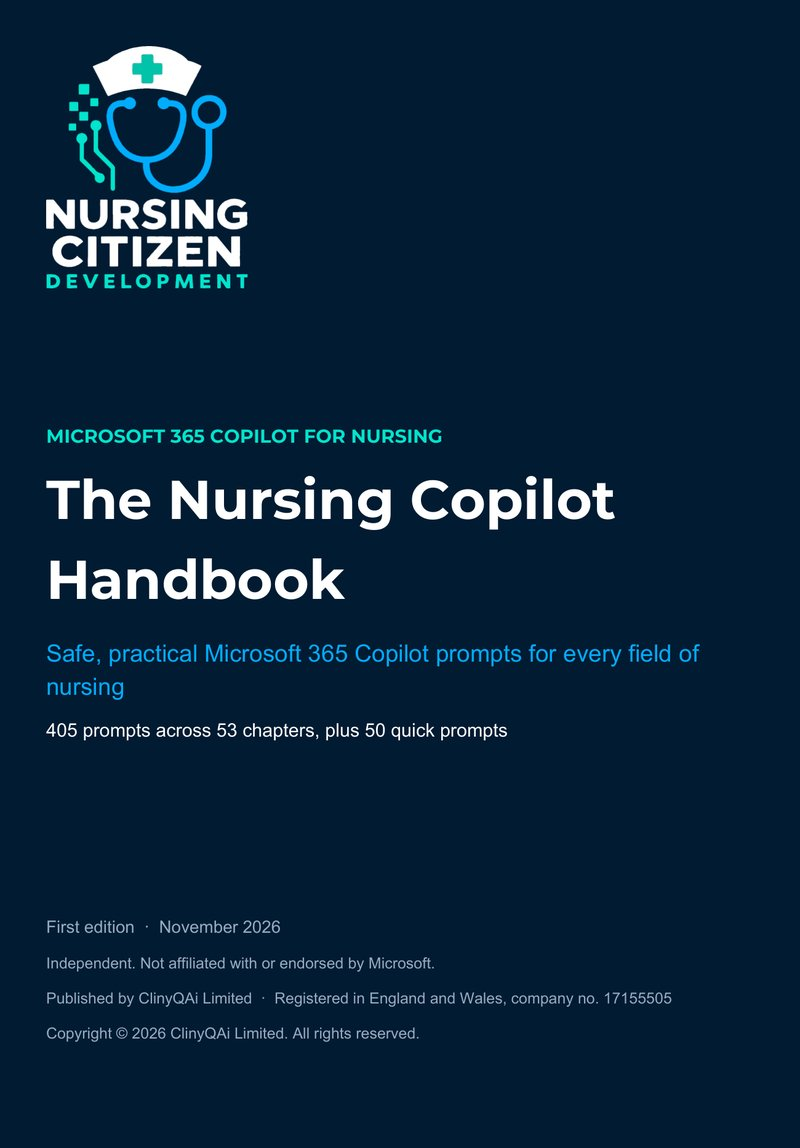
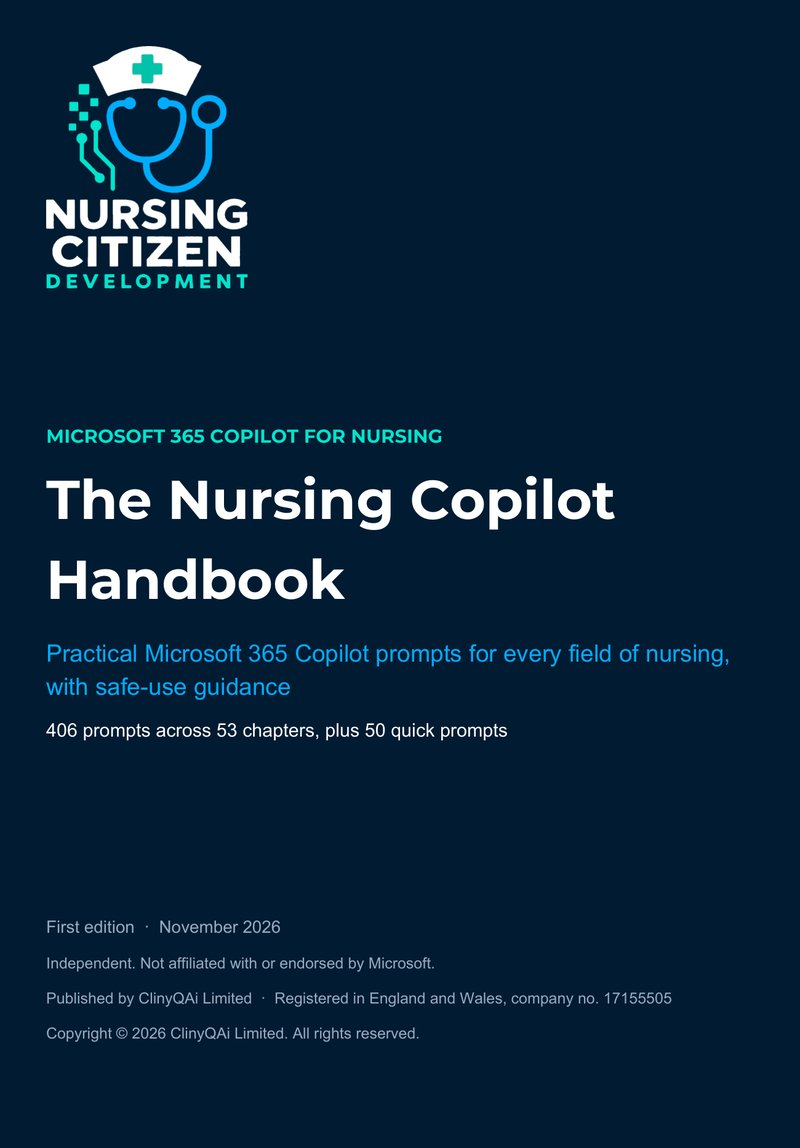
Compliance updates: claims, how buying works, language, eligibility
Replace unqualified 'safe' claims with 'safe-use guidance', update to 406
prompts, add how buying works, language and UK notes, and the student
eligibility line in the terms. Refresh images and free sample.

Changed region(s): [[0.0625, 0.5488, 0.9062, 0.6098]]

diff --git a/index.html b/index.html
@@ -4,9 +4,9 @@
 <meta charset="utf-8">
 <meta name="viewport" content="width=device-width, initial-scale=1">
 <title>The Nursing Copilot Handbook | Nursing Citizen Development</title>
-<meta name="description" content="405 safe, practical Microsoft 365 Copilot prompts for every field of nursing, mapped to the NMC Code. Instant PDF download plus bonus pack.">
+<meta name="description" content="406 practical Microsoft 365 Copilot prompts for every field of nursing, with safe-use guidance, mapped to the NMC Code. Instant PDF download plus bonus pack.">
 <meta property="og:title" content="The Nursing Copilot Handbook">
-<meta property="og:description" content="405 safe, practical Copilot prompts for every field of nursing, mapped to the NMC Code.">
+<meta property="og:description" content="406 practical Copilot prompts for every field of nursing, with safe-use guidance, mapped to the NMC Code.">
 <meta property="og:image" content="assets/Handbook_Cover.jpg">
 <link rel="preconnect" href="https://fonts.googleapis.com">
 <link rel="preconnect" href="https://fonts.gstatic.com" crossorigin>
@@ -34,9 +34,9 @@
     <div>
       <p class="eyebrow">Microsoft 365 Copilot for nursing</p>
       <h1 id="title">The Nursing Copilot Handbook</h1>
-      <p class="lead">405 safe, practical prompts for every field of nursing, built on the nursing process and mapped to the NMC Code. Written by a nurse, for nurses, nursing associates, students and support workers.</p>
+      <p class="lead">406 practical prompts for every field of nursing, with safe-use guidance, built on the nursing process and mapped to the NMC Code. Written by a nurse, for nurses, nursing associates, students and support workers.</p>
       <ul class="facts">
-        <li>405 prompts in 53 chapters</li>
+        <li>406 prompts in 53 chapters</li>
         <li>50 quick prompts</li>
         <li>Free update for the new NMC Code</li>
         <li>Safe-use level on every prompt</li>
@@ -52,10 +52,10 @@
 <section aria-labelledby="why">
   <div class="wrap">
     <p class="eyebrow">Why this handbook</p>
-    <h2 id="why">Copilot is now on NHS desktops. Most nurses haven't been shown how to use it safely.</h2>
+    <h2 id="why">Copilot is now on NHS desktops. This handbook shows nurses how to use it safely.</h2>
     <div class="grid3" style="margin-top:28px">
       <div class="card"><h3>Starts from nursing work</h3><p>Handover, teaching, revalidation, safeguarding preparation, audit, leadership: every prompt begins with a real task, not a tech feature.</p></div>
-      <div class="card"><h3>Safety built in</h3><p>Every prompt carries a safe-use level and the red lines: no identifiable information, no clinical decisions, no made-up references.</p></div>
+      <div class="card"><h3>Safe-use guidance on every prompt</h3><p>Every prompt carries a safe-use level and the red lines: no identifiable information, no clinical decisions, no made-up references.</p></div>
       <div class="card"><h3>Works with your licence</h3><p>Each prompt shows whether it works in Copilot Chat or needs a full Microsoft 365 Copilot licence, with a workaround where there is one.</p></div>
     </div>
   </div>
@@ -135,7 +135,9 @@
         <a class="btn btn-dark" href="mailto:info@nursingcitizendevelopment.com?subject=Nursing%20Copilot%20Handbook%20system%20licence">Ask for a quote</a>
       </div>
     </div>
-    <p class="small" style="margin-top:16px">Secure card payment by Stripe. Your download link appears as soon as you have paid, so save it. Organisations also get a licence certificate by email. By buying you agree to the <a href="terms.html">terms of use</a>, including immediate download. Need to pay by purchase order or invoice instead of card? <a href="mailto:info@nursingcitizendevelopment.com?subject=Nursing%20Copilot%20Handbook%20invoice%20request">Email us</a> with your organisation's name and PO number.</p>
+    <h3 style="margin-top:36px">How buying works</h3>
+    <ol class="small" style="padding-left:20px;margin-top:8px"><li>Choose your copy or licence and click Buy. You go to a secure Stripe page.</li><li>Enter your details, tick to agree to the terms, including immediate download, and pay by card or Apple Pay. You can check and change your details before you pay.</li><li>Your download link appears straight away, and a confirmation email and receipt follow. Organisations also get a licence certificate within one working day.</li></ol>
+    <p class="small" style="margin-top:16px">Prices shown are the total you pay; there is no delivery charge. The handbook is in English. It is written for buyers in the UK. Secure card payment by Stripe. Your download link appears as soon as you have paid, so save it. Organisations also get a licence certificate by email. By buying you agree to the <a href="terms.html">terms of use</a>, including immediate download. Need to pay by purchase order or invoice instead of card? <a href="mailto:info@nursingcitizendevelopment.com?subject=Nursing%20Copilot%20Handbook%20invoice%20request">Email us</a> with your organisation's name and PO number.</p>
   </div>
 </section>
 

diff --git a/terms.html b/terms.html
@@ -28,13 +28,14 @@
     <p>The Nursing Copilot Handbook is owned and published by ClinyQAi Limited, registered in England and Wales, company no. 17155505. Registered office: Flat 2 Fenton House, Hickman Street, Newcastle, ST5 2AR. The Nursing Citizen Development name and logo are used with the permission of Nursing Citizen Development CIC. Contact: <a href="mailto:info@nursingcitizendevelopment.com">info@nursingcitizendevelopment.com</a>.</p>
 
     <h2>Buying</h2>
-    <p>Payments are taken securely by Stripe. Prices are in pounds sterling. Your download link appears on screen as soon as payment is complete; please save it. Organisation licence certificates are emailed within one working day. If you lose your link, email us from the address you used at checkout.</p>
+    <p>Payments are taken securely by Stripe. Prices are in pounds sterling and are the total you pay, with no delivery charge. The handbook is available in English and is sold to buyers in the UK. Your download link appears on screen as soon as payment is complete; please save it. Organisation licence certificates are emailed within one working day. If you lose your link, email us from the address you used at checkout.</p>
 
     <h2>Downloads and your right to cancel</h2>
     <p>The handbook is digital content supplied straight away. When you buy, you agree to immediate supply and acknowledge that you lose the 14-day right to cancel once the download starts. If your file is faulty or will not open, contact us and we will replace it or refund you. Your statutory rights are not affected.</p>
 
     <h2>Individual and student copies</h2>
     <p>An individual or student copy is licensed to you alone. You may use and adapt the prompts in your own work and share what you create with them. You may show a colleague a single prompt, but you may not forward, upload or share the handbook file, or copy its prompts in bulk.</p>
+    <p>The student and support worker price is for nursing students, trainee nursing associates and health and care support workers. We may ask for proof of eligibility.</p>
 
     <h2>Organisation licences</h2>
     <p>A Small organisation licence covers one GP practice, primary care network, care home, hospice, charity or small independent provider. An Organisation-wide licence covers one NHS trust, health board, university school of nursing or private hospital group. A System licence covers the organisations named in your quote.</p>
